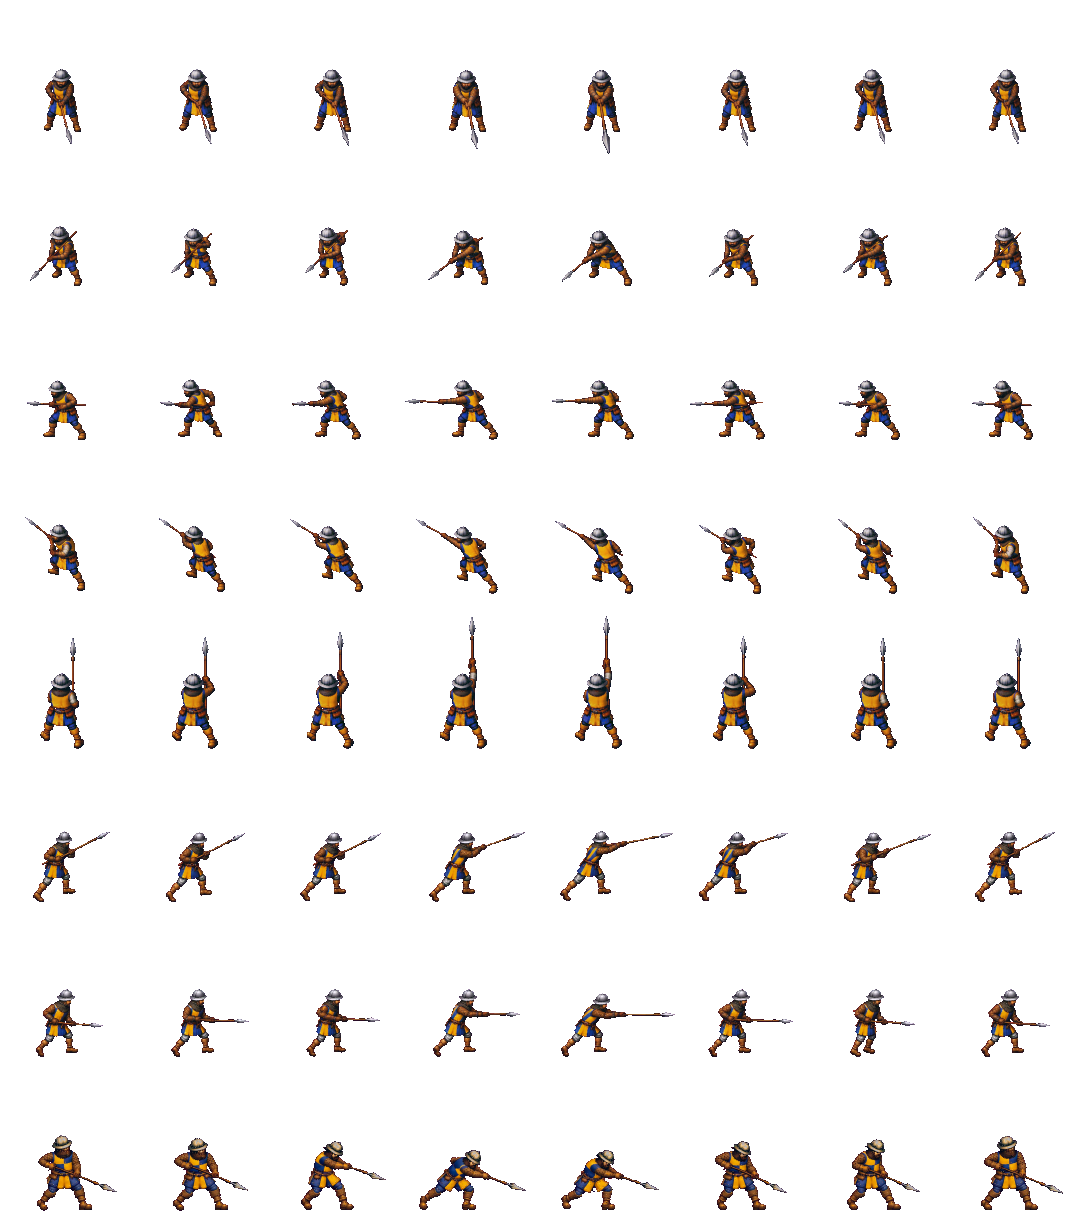
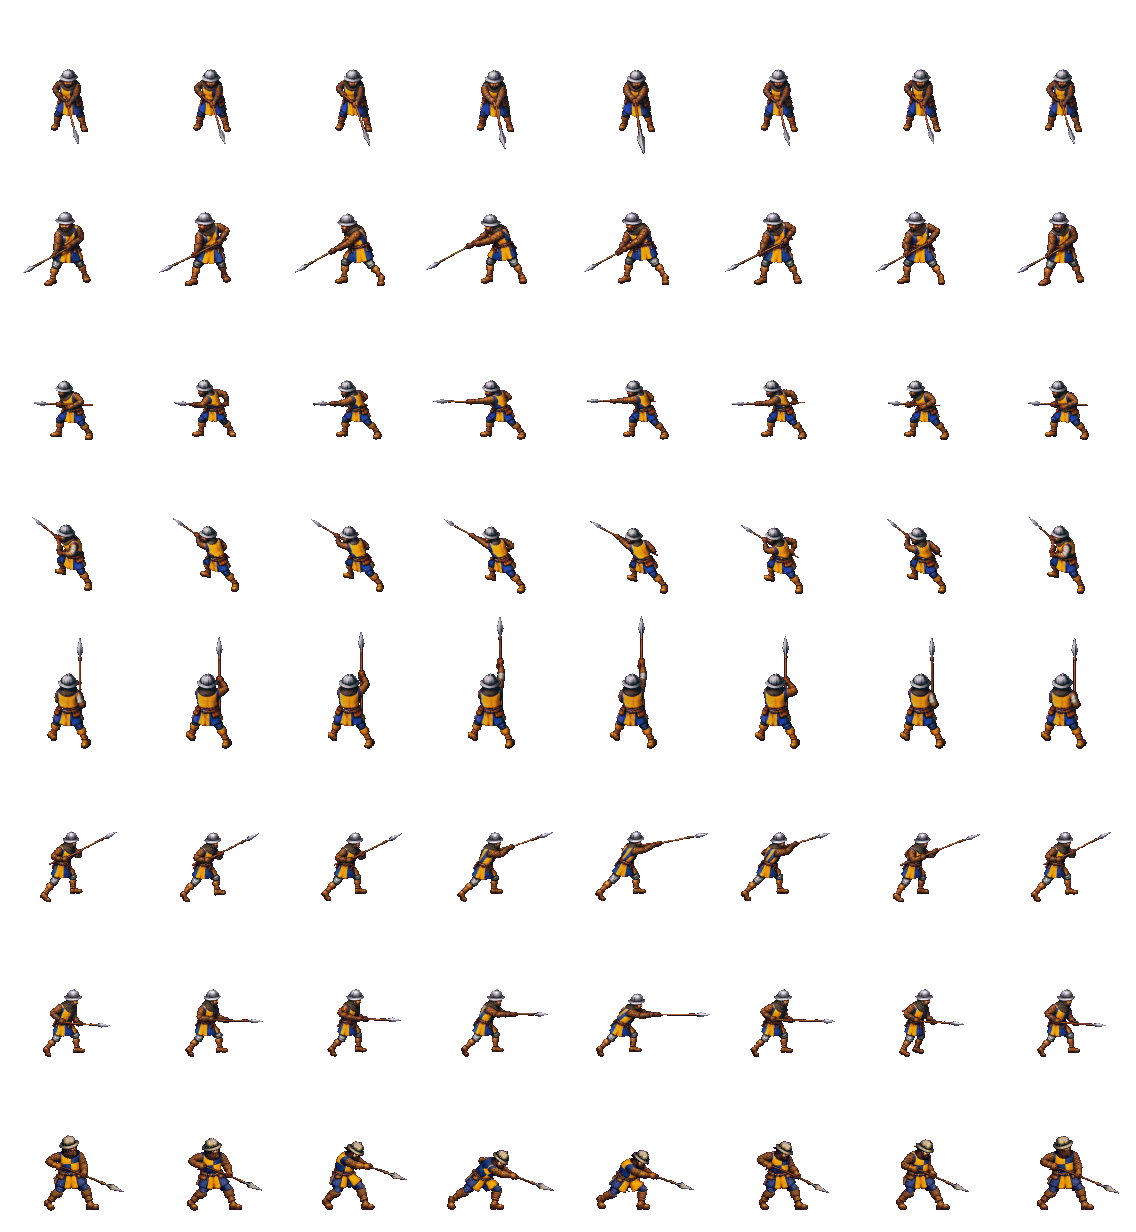
Aanvallen ZW van de speerman, met een steek die op twee tegels raakt
De punt kwam op twee tegels 28 pixels te kort. Opnieuw gevraagd, schuin naar de kijker en langer: de punt komt nu 8
pixels boven het midden van de romp van de buurman. Daarmee raken de speerpunten in alle vier de tweetallen van het
duel het lijf. Staan en lopen blijven pixel voor pixel hetzelfde.

diff --git a/beelden/beschrijving.js b/beelden/beschrijving.js
@@ -544,11 +544,11 @@
     "speerman": {
      "naam": "speerman",
      "cel": [
-      144,
+      152,
       164
      ],
      "anker": [
-      65,
+      73,
       136
      ],
      "snelheid": 1.5,
@@ -599,11 +599,11 @@
        "fps": 10,
        "herhaal": false,
        "cel": [
-        135,
+        142,
         154
        ],
        "anker": [
-        61,
+        68,
         132
        ]
       },

diff --git a/ontwerp/beelden-van-de-generator.md b/ontwerp/beelden-van-de-generator.md
@@ -394,7 +394,11 @@ generator van 1,7 MB; op spelmaat is het verschil ruis) en lopen in het spel. Wa
   the spearhead is almost as far to the right of his body as he is tall": de punt op (73, -42) tegen (64, -40).
   Aanvallen NO met "thrust at a flatter angle [...] almost as far to the right of his body as he is tall, at the height
   of his own head": de punt op (71, -69) tegen (64, -72) op twee tegels, maar hij staat meer van opzij dan lopen NO.
-  Aanvallen ZW kwam eerst van opzij (als W) en met twee beelden tegen elkaar; opnieuw gevraagd.
+  Aanvallen ZW kwam eerst van opzij (als W) en met twee beelden tegen elkaar; goed met "redo 11 again: this is
+  Attacking SW, not W. He faces south-west, down and to the left, TOWARDS the viewer at three-quarters [...] the spear
+  [...] pointing down and to the left at about 30 degrees below horizontal [...] almost as far to the left of his body as
+  he is tall, at the height of his own knees [...] evenly spaced [...]": de punt op (-67, -18), op twee tegels 8 pixels
+  boven het midden van de romp. Daarmee raken de speerpunten in alle vier de tweetallen van het duel het lijf.
 - **Alle 25 vellen zijn er** (22 okt). Wat nog beter kan: eventueel 3 en 4 (lopen ZW en W:
   de punt naar achteren). De vallen vanaf 18 zijn glimmender en oranjer getekend (de wapenrok bijna zonder blauw);
   `kleurGelijk` trekt de kleur bij, de vorm niet. Bij N (vel 14), van achteren, speelt hetzelfde: dan de punt

diff --git a/ontwerp/werklijst.md b/ontwerp/werklijst.md
@@ -32,7 +32,7 @@ de pijplijn van vraag 180 (Q, f; niet in de cloud). **Bezig in sessie `lokaal-da
 **nieuwe weg** (Marcel, 21 okt: "Ok, dan zullen we moeten inventariseren welke gebouwen en poppetjes we nodig hebben. Dan
 kunnen we de andere generator deze 1 voor 1 laten maken. Jij moet dan zorgen dat ze passend worden in het spel"): de
 generator van zijn plaat maakt de bron, wij maken het passend; eerst de inventaris (`beelden-van-de-generator.md`). De
-speerman staat en loopt in het spel in acht richtingen (21 okt, de masterprompt); de aanval in alle acht richtingen en alle 25 vellen staan erin, en lopen O, W en NO opnieuw, met bewegende benen en de bouw van vel 1 (22 okt): af, `beelden-van-de-generator.md` (in
+speerman staat en loopt in het spel in acht richtingen (21 okt, de masterprompt); de aanval in alle acht richtingen en alle 25 vellen staan erin, lopen O, W en NO opnieuw met bewegende benen en de bouw van vel 1, en aanvallen O, ZW en NO opnieuw zodat de punt op spelafstand het lijf raakt (22 okt; de speer steekt opzij van ernaast, verder van twee tegels, `steekReik`): af, `beelden-van-de-generator.md` (in
 het nieuwe gesprek, `beelden-van-de-generator.md`), en eventueel 3 en 4 opnieuw (de punt naar achteren).
 
 **Marcels acht punten van 20 okt** (R, vraag 182 tot 189: egaliseren met de schop, de maat van de huizen, dragers, een
